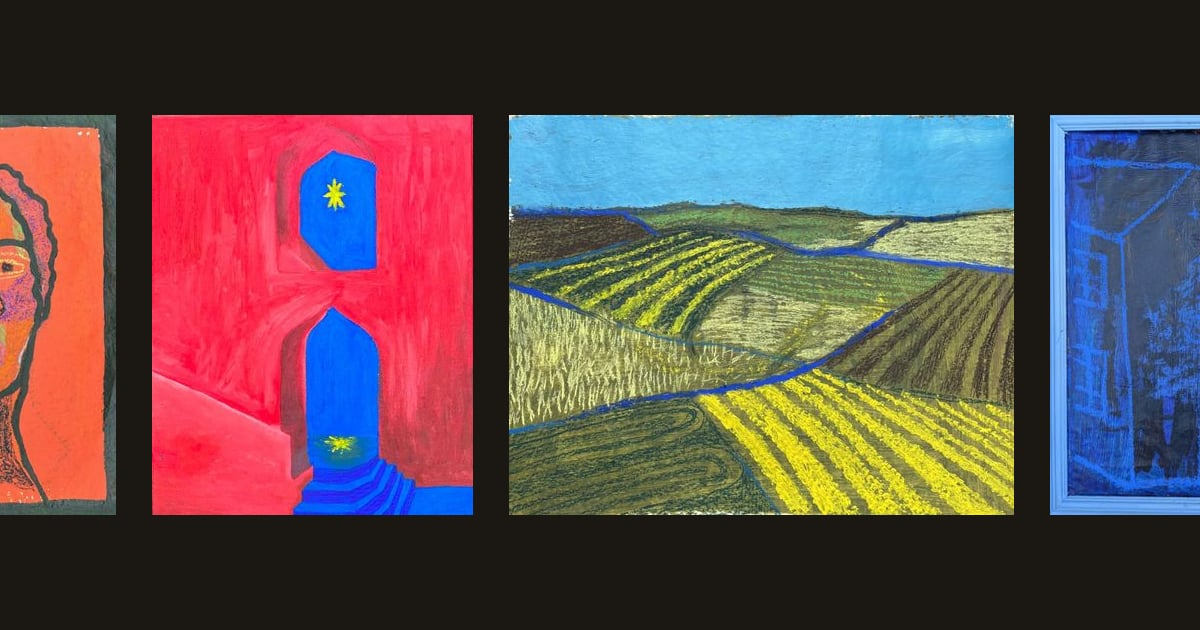
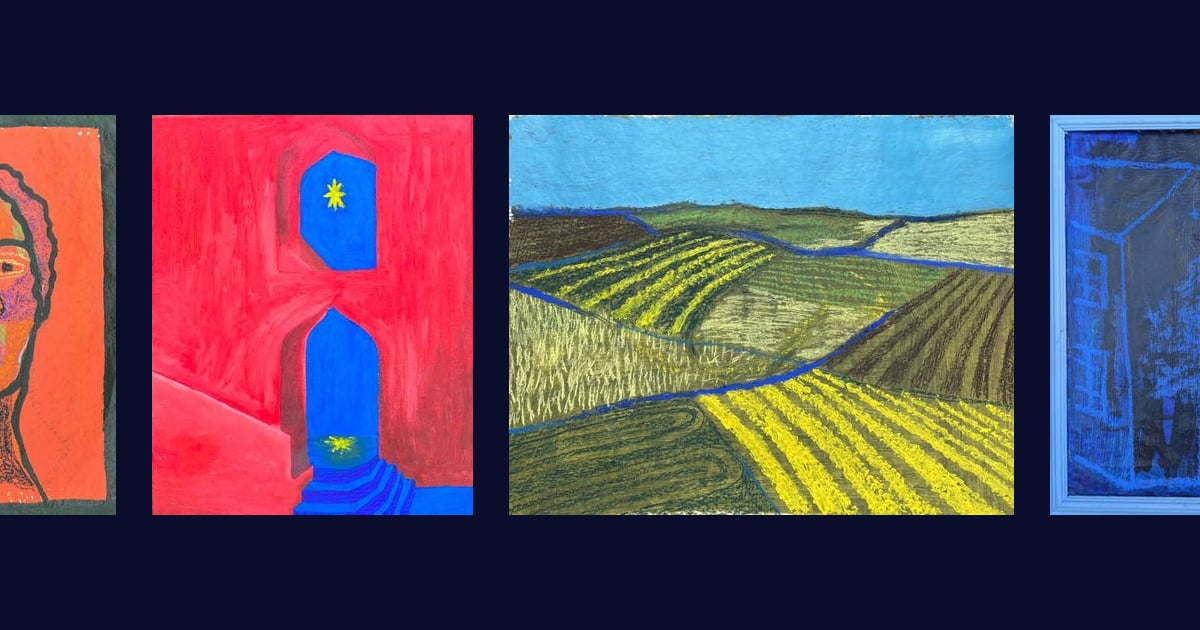
Ultramarine and lavender colour scheme, chosen by Selma
Evening room gets ultramarine walls, Daylight room is lavender; UI
buttons, toggles and accents follow. Favicon and link preview updated.

diff --git a/src/style.css b/src/style.css
@@ -1,19 +1,26 @@
+/* Colour scheme picked by Selma: ultramarine blue and lavender */
 :root {
-  --bg: #14120f;
-  --ink: #f3eee6;
-  --ink-dim: rgba(243, 238, 230, 0.58);
-  --glass: rgba(255, 255, 255, 0.07);
-  --glass-hover: rgba(255, 255, 255, 0.16);
-  --glass-border: rgba(255, 255, 255, 0.16);
-  --track: rgba(255, 255, 255, 0.18);
+  --ultramarine: #2a35b0;
+  --ultramarine-deep: #1b2380;
+  --lavender: #bfb0ec;
+  --lavender-soft: #e7e1f8;
 
-  /* Panels, plaques and dialogs are "paper" in both room themes */
-  --paper: #f6f3ee;
-  --paper-2: #ece7df;
-  --paper-ink: #1d1a16;
-  --paper-dim: #6f675d;
-  --paper-line: rgba(29, 26, 22, 0.12);
-  --accent: #1d1a16;
+  --bg: #0a0d2c;
+  --ink: #f2effc;
+  --ink-dim: rgba(242, 239, 252, 0.6);
+  --glass: rgba(191, 176, 236, 0.1);
+  --glass-hover: rgba(191, 176, 236, 0.22);
+  --glass-border: rgba(191, 176, 236, 0.24);
+  --track: rgba(191, 176, 236, 0.22);
+  --counter-fill: var(--lavender);
+
+  /* Panels and dialogs are lavender-tinted paper in both room themes */
+  --paper: #f7f5fd;
+  --paper-2: #ebe6f9;
+  --paper-ink: #161a4a;
+  --paper-dim: #67628c;
+  --paper-line: rgba(22, 26, 74, 0.12);
+  --accent: var(--ultramarine);
   --red-dot: #c8322b;
 
   --ease-snap: cubic-bezier(0.2, 0.9, 0.25, 1);
@@ -22,13 +29,14 @@
 }
 
 :root[data-theme='daylight'] {
-  --bg: #dcd6cc;
-  --ink: #1d1a16;
-  --ink-dim: rgba(29, 26, 22, 0.58);
+  --bg: #dcd3f0;
+  --ink: #161a4a;
+  --ink-dim: rgba(22, 26, 74, 0.6);
   --glass: rgba(255, 255, 255, 0.45);
   --glass-hover: rgba(255, 255, 255, 0.75);
-  --glass-border: rgba(29, 26, 22, 0.14);
-  --track: rgba(29, 26, 22, 0.18);
+  --glass-border: rgba(22, 26, 74, 0.14);
+  --track: rgba(22, 26, 74, 0.18);
+  --counter-fill: var(--ultramarine);
 }
 
 * {
@@ -176,8 +184,8 @@ input:focus-visible {
   height: 18px;
   padding: 0 5px;
   border-radius: 9px;
-  background: var(--red-dot);
-  color: #fff;
+  background: var(--lavender);
+  color: var(--paper-ink);
   font-size: 10px;
   font-weight: 600;
   line-height: 18px;
@@ -244,8 +252,8 @@ input:focus-visible {
     color 0.2s;
 }
 .segmented button[aria-pressed='true'] {
-  background: #fff;
-  color: var(--paper-ink);
+  background: var(--ultramarine);
+  color: #fff;
   box-shadow: 0 1px 3px rgba(0, 0, 0, 0.12);
 }
 
@@ -321,7 +329,7 @@ input:focus-visible {
 .counter__fill {
   position: absolute;
   inset: 0;
-  background: var(--ink);
+  background: var(--counter-fill);
   transform-origin: left;
   transform: scaleX(0);
   transition: transform 0.45s var(--ease-snap);
@@ -492,7 +500,7 @@ input:focus-visible {
   color: var(--paper);
 }
 .btn--primary:hover {
-  background: #3a342c;
+  background: var(--ultramarine-deep);
 }
 .btn--ghost {
   border: 1px solid var(--paper-line);
@@ -510,7 +518,7 @@ input:focus-visible {
   color: var(--paper-ink);
 }
 .btn--added:hover {
-  background: #e2dcd2;
+  background: #dfd8f5;
 }
 .btn--block {
   width: 100%;
@@ -522,7 +530,7 @@ input:focus-visible {
 .scrim {
   position: fixed;
   inset: 0;
-  background: rgba(10, 9, 8, 0.45);
+  background: rgba(8, 10, 40, 0.5);
   -webkit-backdrop-filter: blur(3px);
   backdrop-filter: blur(3px);
   z-index: 7;
@@ -1068,7 +1076,7 @@ input:focus-visible {
 }
 .about__photo {
   position: relative;
-  background: #1b1814;
+  background: #0a0d2c;
   min-height: 100%;
 }
 .about__photo img {
@@ -1107,7 +1115,7 @@ input:focus-visible {
   margin-top: 14px;
   font-size: 14.5px;
   line-height: 1.65;
-  color: #3b352e;
+  color: #3a3868;
 }
 .about__cta {
   margin-top: 24px;
@@ -1199,7 +1207,7 @@ input:focus-visible {
   margin-top: 8px;
   font-size: 14px;
   line-height: 1.6;
-  color: #3b352e;
+  color: #3a3868;
 }
 .facts--tight {
   margin-top: 10px;

diff --git a/src/main.js b/src/main.js
@@ -34,26 +34,29 @@ const LOOK = { k: 260, c: 2 * Math.sqrt(260) };
 const DOLLY = { k: 90, c: 2 * Math.sqrt(90) };
 const FRAMING = { k: 120, c: 2 * Math.sqrt(120) };
 
+// Colour scheme picked by Selma: ultramarine blue and lavender
 const THEMES = {
   evening: {
-    bg: '#14120f',
-    wall: '#3a3631',
-    floor: '#16130f',
+    // an ultramarine room: deep blue walls, the spots pull out their colour
+    bg: '#0a0d2c',
+    wall: '#26308a',
+    floor: '#0b0e2e',
     floorOpacity: 0.86,
-    skirting: '#0f0e0d',
+    skirting: '#0d1034',
     plaqueGlow: 0.22,
-    hemi: 0.35,
-    spot: 38,
+    hemi: 0.3,
+    spot: 40,
     exposure: 1.05,
   },
   daylight: {
-    bg: '#dcd6cc',
-    wall: '#e4dfd6',
-    floor: '#b9b1a4',
+    // a lavender room
+    bg: '#dcd3f0',
+    wall: '#d6cbef',
+    floor: '#a99cc9',
     floorOpacity: 0.8,
-    skirting: '#d3ccc0',
+    skirting: '#c3b6e4',
     plaqueGlow: 0,
-    hemi: 1.35,
+    hemi: 1.3,
     spot: 16,
     exposure: 0.95,
   },
@@ -79,7 +82,7 @@ scene.fog = new THREE.Fog(0x000000, 7, 17);
 
 const camera = new THREE.PerspectiveCamera(FOV, innerWidth / innerHeight, 0.1, 60);
 
-const hemi = new THREE.HemisphereLight('#fff4e6', '#1a1510', 0.35);
+const hemi = new THREE.HemisphereLight('#f1edff', '#141845', 0.35);
 scene.add(hemi);
 const spots = [];
 
@@ -284,7 +287,7 @@ async function buildGallery() {
     frames.push(f);
 
     // A museum spot for every painting, wide enough to catch the plaque too
-    const spot = new THREE.SpotLight('#ffe9cf', THEMES.evening.spot, 10, 0.44, 0.7, 1.6);
+    const spot = new THREE.SpotLight('#fff4ec', THEMES.evening.spot, 10, 0.44, 0.7, 1.6);
     spot.position.set(cursor, 4.3, 2.3);
     spot.target.position.set(cursor, EYE - 0.25, 0);
     spot.castShadow = true;

diff --git a/index.html b/index.html
@@ -3,7 +3,7 @@
   <head>
     <meta charset="UTF-8" />
     <meta name="viewport" content="width=device-width, initial-scale=1.0, viewport-fit=cover" />
-    <meta name="theme-color" content="#14120f" />
+    <meta name="theme-color" content="#0a0d2c" />
     <title>Selma Frausing Binau · Paintings</title>
     <meta
       name="description"
